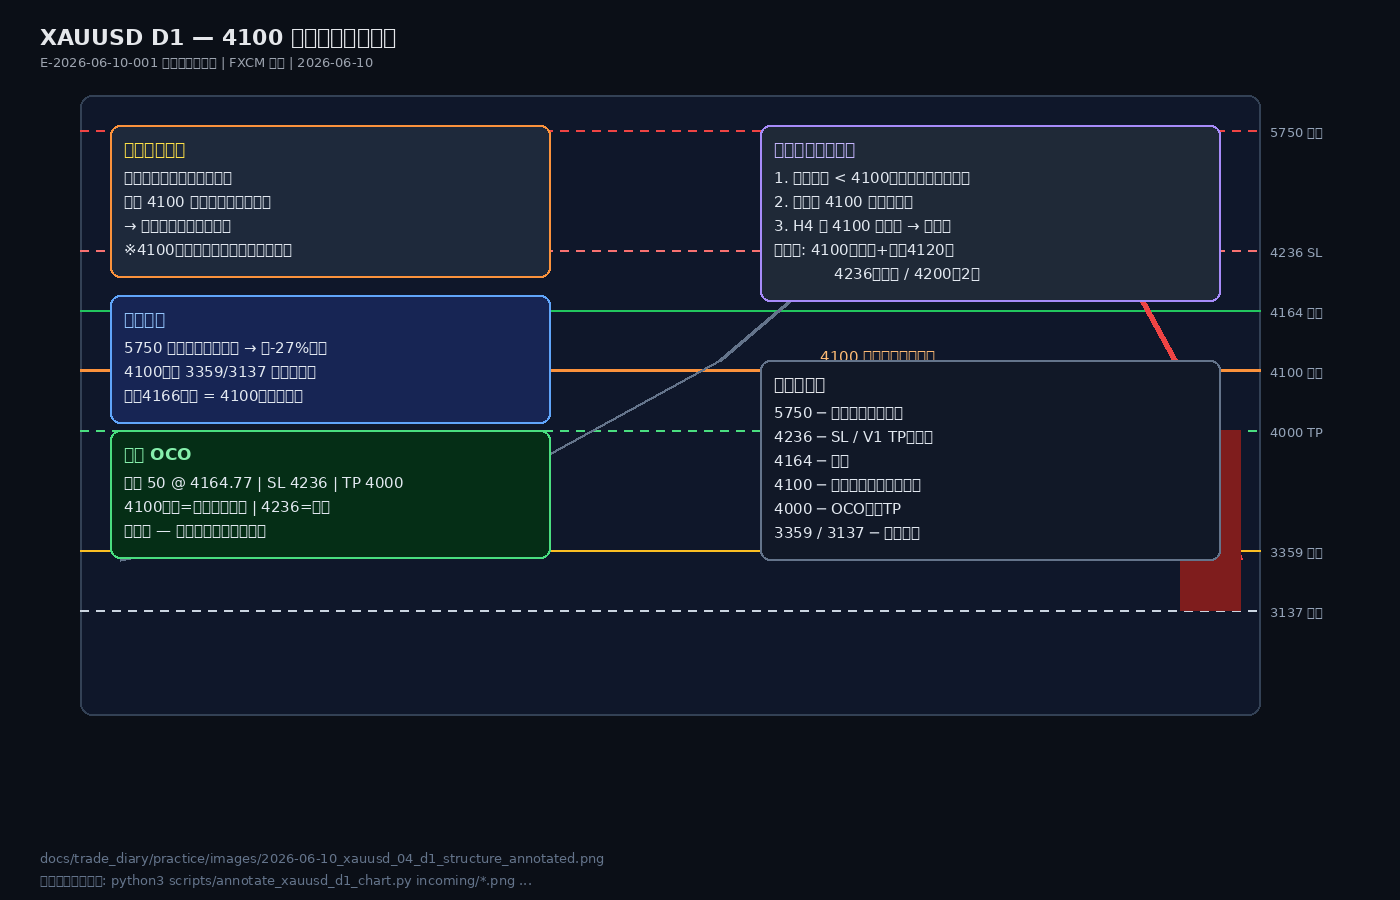
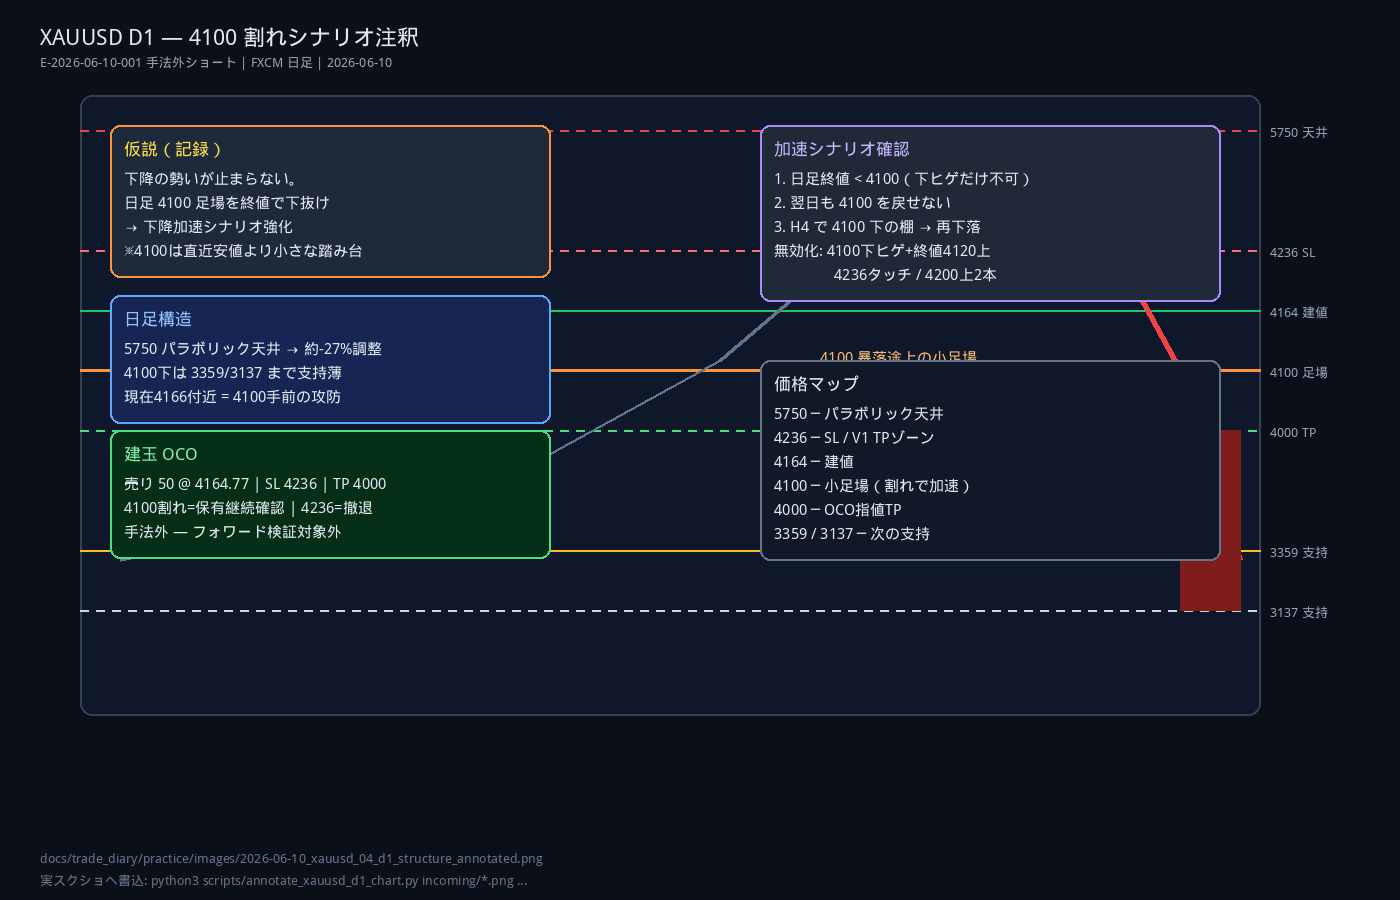
Fix Japanese font rendering in annotated chart PNG
Use WQY Micro Hei via chart_fonts.py; regenerate annotated image.
DejaVu fallback caused tofu boxes on GitHub preview.

diff --git a/scripts/chart_fonts.py b/scripts/chart_fonts.py
@@ -1,0 +1,33 @@
+"""Pillow 用日本語フォント解決（トレード日誌チャート注釈）。"""
+from __future__ import annotations
+
+from pathlib import Path
+
+from PIL import ImageFont
+
+# 日本語グリフを含むフォント（優先順）
+JP_FONT_CANDIDATES = [
+    "/usr/share/fonts/truetype/wqy/wqy-microhei.ttc",
+    "/usr/share/fonts/truetype/droid/DroidSansFallbackFull.ttf",
+    "/usr/share/fonts/opentype/noto/NotoSansCJK-Regular.ttc",
+    "/usr/share/fonts/opentype/noto/NotoSansCJK-Bold.ttc",
+    "/usr/share/fonts/truetype/noto/NotoSansCJK-Regular.ttc",
+]
+
+
+def get_japanese_font(size: int, bold: bool = False) -> ImageFont.FreeTypeFont:
+    """日本語表示可能な TrueType フォントを返す。見つからなければ例外。"""
+    paths = list(JP_FONT_CANDIDATES)
+    if bold:
+        paths = [
+            "/usr/share/fonts/truetype/wqy/wqy-microhei.ttc",
+            "/usr/share/fonts/opentype/noto/NotoSansCJK-Bold.ttc",
+            *paths,
+        ]
+    for path in paths:
+        if Path(path).exists():
+            return ImageFont.truetype(path, size)
+    raise RuntimeError(
+        "日本語フォントが見つかりません。"
+        " sudo apt install fonts-wqy-microhei fonts-noto-cjk を実行してください。"
+    )

diff --git a/scripts/render_xauusd_d1_annotated_chart.py b/scripts/render_xauusd_d1_annotated_chart.py
@@ -2,24 +2,22 @@
 """4100 割れシナリオ注釈付き D1 ゴールドチャート図を PNG 生成する。"""
 from __future__ import annotations
 
+import sys
 from pathlib import Path
 
-from PIL import Image, ImageDraw, ImageFont
+# scripts/ から chart_fonts を import 可能にする
+sys.path.insert(0, str(Path(__file__).resolve().parent))
+
+from PIL import Image, ImageDraw
+
+from chart_fonts import get_japanese_font
 
 OUT = Path("docs/trade_diary/practice/images/2026-06-10_xauusd_04_d1_structure_annotated.png")
 W, H = 1400, 900
 
 
-def font(size: int, bold: bool = False) -> ImageFont.FreeTypeFont | ImageFont.ImageFont:
-    candidates = [
-        "/usr/share/fonts/opentype/noto/NotoSansCJK-Bold.ttc" if bold else "/usr/share/fonts/opentype/noto/NotoSansCJK-Regular.ttc",
-        "/usr/share/fonts/truetype/noto/NotoSansCJK-Regular.ttc",
-        "/usr/share/fonts/truetype/dejavu/DejaVuSans-Bold.ttf" if bold else "/usr/share/fonts/truetype/dejavu/DejaVuSans.ttf",
-    ]
-    for path in candidates:
-        if Path(path).exists():
-            return ImageFont.truetype(path, size)
-    return ImageFont.load_default()
+def font(size: int, bold: bool = False):
+    return get_japanese_font(size, bold=bold)
 
 
 def text_box(

diff --git a/scripts/annotate_xauusd_d1_chart.py b/scripts/annotate_xauusd_d1_chart.py
@@ -11,7 +11,11 @@ from __future__ import annotations
 import sys
 from pathlib import Path
 
+sys.path.insert(0, str(Path(__file__).resolve().parent))
+
 from PIL import Image, ImageDraw, ImageFont
+
+from chart_fonts import get_japanese_font
 
 
 ANNOTATIONS = [
@@ -47,22 +51,15 @@ ANNOTATIONS = [
 ]
 
 
-def load_font(size: int) -> ImageFont.FreeTypeFont | ImageFont.ImageFont:
-    for path in (
-        "/usr/share/fonts/truetype/dejavu/DejaVuSans.ttf",
-        "/usr/share/fonts/truetype/noto/NotoSansCJK-Regular.ttc",
-        "/usr/share/fonts/opentype/noto/NotoSansCJK-Regular.ttc",
-    ):
-        if Path(path).exists():
-            return ImageFont.truetype(path, size)
-    return ImageFont.load_default()
+def load_font(size: int):
+    return get_japanese_font(size)
 
 
 def draw_box(
     draw: ImageDraw.ImageDraw,
     xy: tuple[int, int],
     lines: list[str],
-    font: ImageFont.ImageFont,
+    font: ImageFont.FreeTypeFont,
     fill: tuple[int, int, int, int],
     text_color: tuple[int, int, int],
 ) -> None:

diff --git a/docs/trade_diary/practice/images/incoming/README.md b/docs/trade_diary/practice/images/incoming/README.md
@@ -2,6 +2,18 @@
 
 TradingView / GMO の**実スクショ**をここに置いてから、注釈スクリプトを実行してください。
 
+## フォント要件
+
+注釈 PNG 生成には **日本語フォント** が必要です（未インストールだと □□□ になる）。
+
+```bash
+sudo apt install fonts-wqy-microhei   # 最低限これ
+# または
+sudo apt install fonts-noto-cjk       # より綺麗
+```
+
+スクリプトは `scripts/chart_fonts.py` でフォントを自動選択します。
+
 ## XAUUSD 日足に説明を書き込む
 
 ```bash
